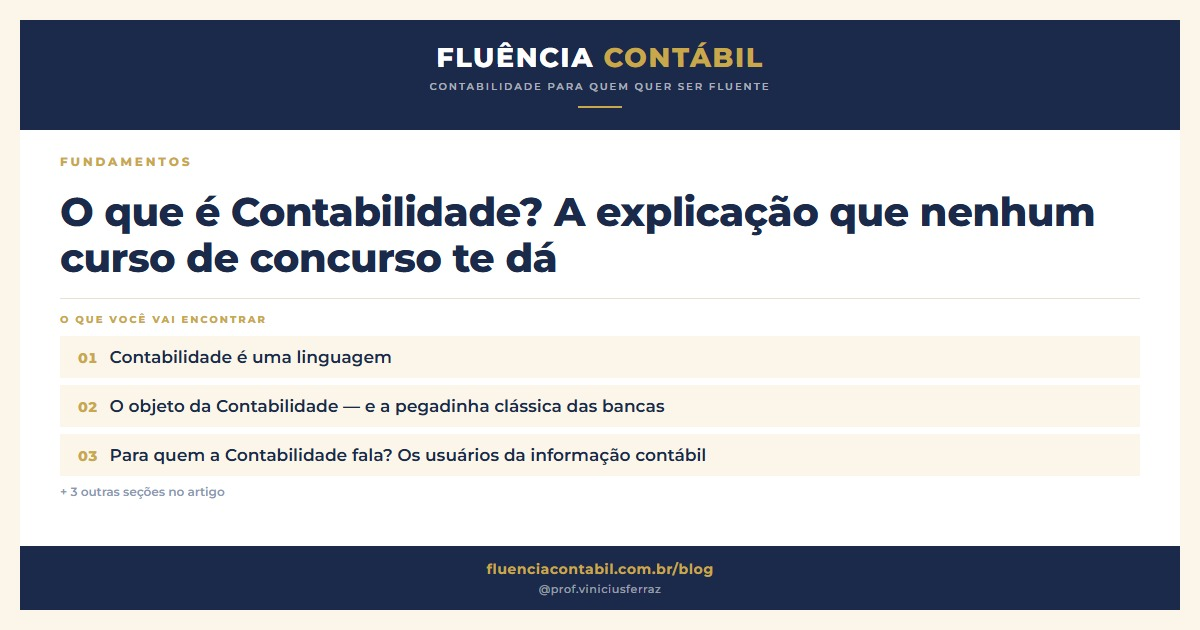
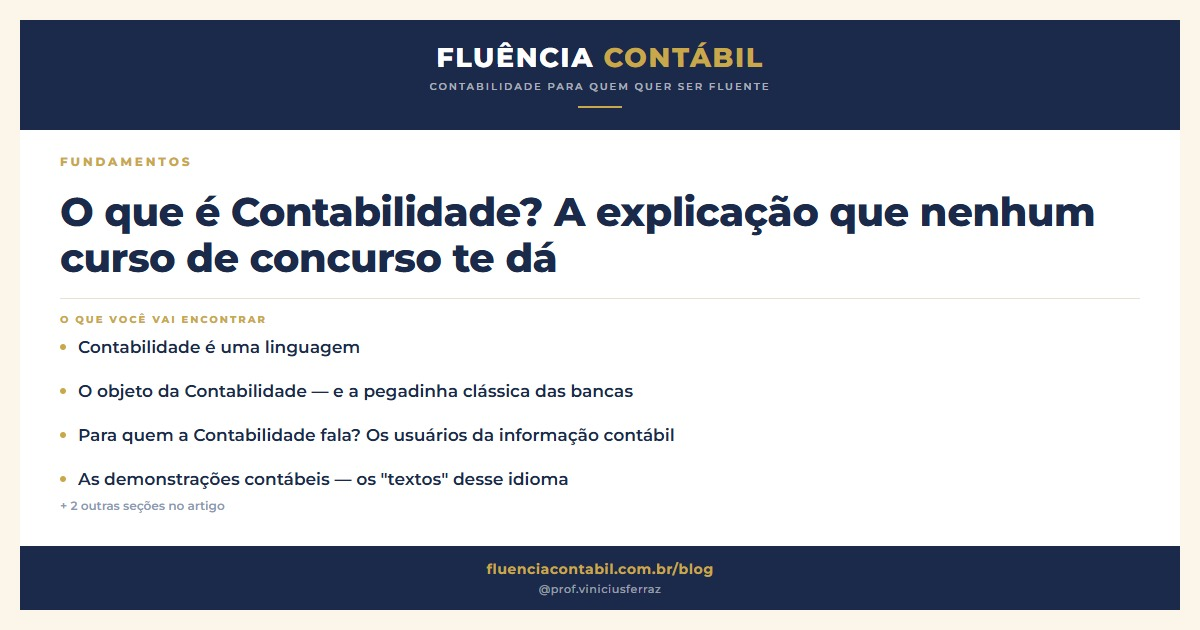
refactor(blog): seções do card viram lista com marcador, sem caixa
Pedido do Vinícius: "creio que ficaria mais clean sem o card, mas em formato de
bullet point". As caixas cream preenchidas saíram; ficou o marcador redondo
dourado e o texto.

Consequência: sem o peso visual das caixas cabe mais conteúdo — o feed passou de
7 para 8 seções no post mais denso, e o og de 3 para 4.

Bug corrigido no caminho: `distribuirSobra()` nunca fazia nada. Ela media o
espaço livre por `clientHeight - scrollHeight`, mas num elemento de altura fixa
cujo conteúdo cabe o `scrollHeight` devolve a altura da PRÓPRIA CAIXA — a sobra
dava sempre zero e o espaçamento entre itens nunca crescia. Agora mede pelo
rodapé do último item, e a lista de fato ocupa o card em vez de deixar um vão
morto acima do rodapé.

O Canvas voltou a bater exatamente com o template: os 8 casos de teste dão o
mesmo corpo de título E a mesma contagem de seções (60/8, 68/9, 60/8, 68/8,
60/7, 68/7, 60/6, 68/6). As medidas do Canvas foram reextraídas do CSS com
_geometria.mjs, não ajustadas no olho.

Os 11 og:image foram regerados.

Changed region(s): [[0.0308, 0.5429, 0.5858, 0.8143]]

diff --git a/assets/share-card.js b/assets/share-card.js
@@ -39,7 +39,7 @@
       faixa: 181, rodape: 104,
       padTopo: 46, padLados: 54, padBase: 40,
       tituloMin: 34, tituloMax: 60, tituloLinhas: 3,
-      secoesMin: 3, secoesMax: 7, gapExtraMax: 20
+      secoesMin: 3, secoesMax: 8, gapBase: 18, gapExtraMax: 22
     },
     story: {
       w: 1080, h: 1920,
@@ -48,7 +48,7 @@
       faixa: 181, rodape: 104,
       padTopo: 46, padLados: 54, padBase: 40,
       tituloMin: 38, tituloMax: 68, tituloLinhas: 4,
-      secoesMin: 4, secoesMax: 9, gapExtraMax: 26
+      secoesMin: 4, secoesMax: 9, gapBase: 18, gapExtraMax: 30
     }
   };
 
@@ -64,9 +64,9 @@
     divisorGapTopo: 30, divisorGapBase: 26,
     rotuloPx: 13, rotuloAlt: 16, rotuloGap: 18,
 
-    secaoPadV: 18, secaoPadH: 26, secaoGapInterno: 18,
-    secaoNumPx: 20, secaoTxtPx: 26, secaoEntrelinha: 1.32,
-    gapBase: 12,
+    // lista simples: marcador redondo dourado + texto, sem caixa
+    secaoGapInterno: 18, marcadorTam: 9, marcadorTopo: 13,
+    secaoTxtPx: 26, secaoEntrelinha: 1.32,
 
     maisGap: 14, maisPx: 18, maisAlt: 22,
 
@@ -277,20 +277,16 @@
          Preferimos MAIS seções a título maior: o card existe pra dizer o que tem
          dentro do artigo. Para cada quantidade de seções (da maior pra menor),
          busca o maior título que ainda caiba; a primeira combinação vence. */
+      var largTextoSecao = larg - M.marcadorTam - M.secaoGapInterno;
+      var alturaLinhaSecao = M.secaoTxtPx * M.secaoEntrelinha;
+
       function alturaBlocos(n) {
         var total = 0;
         ctx.font = fonte(600, M.secaoTxtPx);
-        var largTexto = larg - M.secaoPadH * 2 - M.secaoGapInterno - larguraNumero();
         for (var i = 0; i < n; i++) {
-          var linhas = quebrar(ctx, secoes[i], largTexto, 0, M.secaoTxtPx).length;
-          total += M.secaoPadV * 2 + linhas * M.secaoTxtPx * M.secaoEntrelinha;
+          total += quebrar(ctx, secoes[i], largTextoSecao, 0, M.secaoTxtPx).length * alturaLinhaSecao;
         }
         return total;
-      }
-
-      function larguraNumero() {
-        ctx.font = fonte(800, M.secaoNumPx);
-        return ctx.measureText('00').width;
       }
 
       function alturaTitulo(px) {
@@ -317,7 +313,7 @@
         var min = f.tituloMin, max = f.tituloMax, melhor = 0;
         while (min <= max) {
           var meio = Math.floor((min + max) / 2);
-          var total = fixo + alturaTitulo(meio) + blocos + (n - 1) * M.gapBase + alturaMais;
+          var total = fixo + alturaTitulo(meio) + blocos + (n - 1) * f.gapBase + alturaMais;
           if (linhasTitulo(meio) <= f.tituloLinhas && total <= alturaCorpo) { melhor = meio; min = meio + 1; }
           else { max = meio - 1; }
         }
@@ -333,8 +329,8 @@
 
       // Sobra vertical vira respiro entre os blocos, não vão morto acima do rodapé.
       var usado = fixo + alturaTitulo(escolhido.px) + escolhido.blocos
-                + (escolhido.n - 1) * M.gapBase + escolhido.alturaMais;
-      var gap = M.gapBase;
+                + (escolhido.n - 1) * f.gapBase + escolhido.alturaMais;
+      var gap = f.gapBase;
       if (escolhido.n > 1) {
         var sobra = alturaCorpo - usado;
         if (sobra > 0) gap += Math.min(f.gapExtraMax, Math.floor(sobra / (escolhido.n - 1)));
@@ -378,34 +374,26 @@
       escrever(ctx, 'O QUE VOCÊ VAI ENCONTRAR', esq, y + M.rotuloAlt / 2, M.trackRotulo, M.rotuloPx);
       y += M.rotuloAlt + M.rotuloGap;
 
-      /* --- blocos das seções --- */
-      var largNum = larguraNumero();
-      var largTexto = larg - M.secaoPadH * 2 - M.secaoGapInterno - largNum;
-      var alturaLinhaSecao = M.secaoTxtPx * M.secaoEntrelinha;
+      /* --- lista das seções: marcador dourado + texto, sem caixa --- */
+      var xTexto = esq + M.marcadorTam + M.secaoGapInterno;
+      var raio = M.marcadorTam / 2;
 
       for (var i = 0; i < escolhido.n; i++) {
         ctx.font = fonte(600, M.secaoTxtPx);
-        var linhas = quebrar(ctx, secoes[i], largTexto, 0, M.secaoTxtPx);
-        var alturaBloco = M.secaoPadV * 2 + linhas.length * alturaLinhaSecao;
+        var linhas = quebrar(ctx, secoes[i], largTextoSecao, 0, M.secaoTxtPx);
 
-        ctx.fillStyle = COR.cream;
-        ctx.fillRect(esq, y, larg, alturaBloco);
-
-        // número dourado, alinhado pela primeira linha do texto
-        ctx.font = fonte(800, M.secaoNumPx);
+        // marcador centralizado na primeira linha do texto
         ctx.fillStyle = COR.ouro;
-        var rotulo = (i + 1) < 10 ? '0' + (i + 1) : String(i + 1);
-        ctx.fillText(rotulo, esq + M.secaoPadH, y + M.secaoPadV + alturaLinhaSecao / 2);
+        ctx.beginPath();
+        ctx.arc(esq + raio, y + M.marcadorTopo + raio, raio, 0, Math.PI * 2);
+        ctx.fill();
 
-        ctx.font = fonte(600, M.secaoTxtPx);
         ctx.fillStyle = COR.navy;
-        var xTexto = esq + M.secaoPadH + largNum + M.secaoGapInterno;
         for (var L = 0; L < linhas.length; L++) {
-          ctx.fillText(linhas[L], xTexto,
-                       y + M.secaoPadV + alturaLinhaSecao * L + alturaLinhaSecao / 2);
+          ctx.fillText(linhas[L], xTexto, y + alturaLinhaSecao * L + alturaLinhaSecao / 2);
         }
 
-        y += alturaBloco + (i < escolhido.n - 1 ? gap : 0);
+        y += linhas.length * alturaLinhaSecao + (i < escolhido.n - 1 ? gap : 0);
       }
 
       /* --- "+ N outras seções" --- */
